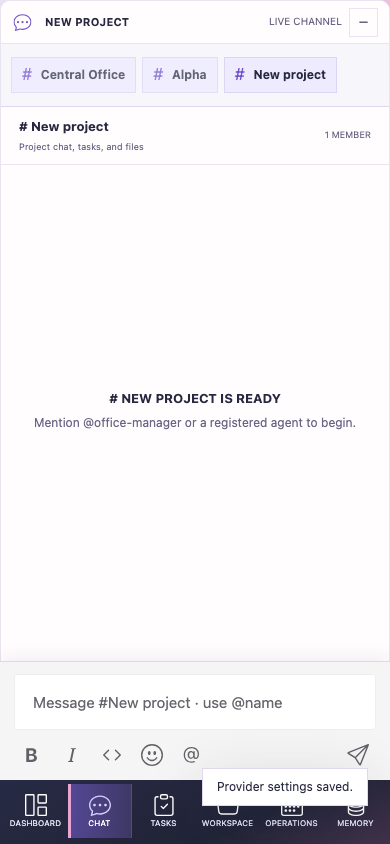
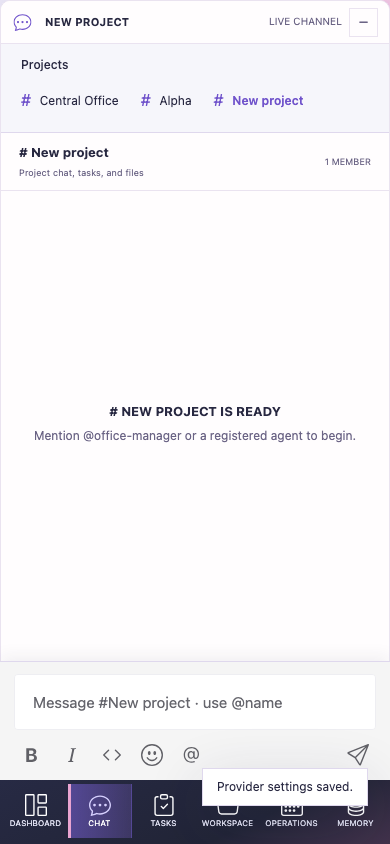
style updates

diff --git a/public/styles/styles.css b/public/styles/styles.css
@@ -214,20 +214,22 @@ body:not([data-page="tasks"]) #add-task-button, body:not([data-page="tasks"]) .t
 
 .office-chat-layout { display: grid; grid-template-columns: 230px minmax(0, 1fr); overflow: hidden; }
 .office-chat-sidebar { min-height: 0; padding: 13px 10px; border-right: 1px solid var(--line); background: #0b1214; }
-.office-chat-channel { height: 36px; display: flex; align-items: center; gap: 9px; padding: 0 10px; border: 1px solid #355245; background: #13231b; color: var(--text); }
+.office-chat-channel { height: 36px; display: flex; align-items: center; gap: 9px; padding: 0 10px; border: 0; background: transparent; color: var(--text); }
 .office-chat-channel span { color: var(--green); font-size: 16px; }
 .office-chat-sidebar h3 { margin: 24px 10px 9px; color: var(--muted); font-size: 9px; font-weight: 400; letter-spacing: .1em; }
 .office-chat-members { display: flex; flex-direction: column; gap: 2px; }
-.office-chat-member { width: 100%; min-height: 39px; display: grid; grid-template-columns: 9px minmax(0, 1fr); align-items: center; column-gap: 9px; padding: 6px 10px; border: 0; background: transparent; color: var(--text); text-align: left; }
-.office-chat-member:hover { background: #ffffff0a; }
-.office-chat-member i { width: 8px; height: 8px; border-radius: 50%; background: var(--green); box-shadow: 0 0 6px #43ec8d77; }
-.office-chat-member[data-status="busy"] i { background: var(--red); box-shadow: 0 0 6px #ff5d6377; }
-.office-chat-member span { min-width: 0; display: flex; flex-direction: column; gap: 2px; }
-.office-chat-member strong { overflow: hidden; font-size: 10px; font-weight: 500; text-overflow: ellipsis; white-space: nowrap; }
-.office-chat-member small { color: var(--muted); font-size: 8px; }
-.office-chat-member-name { min-width: 0; display: flex !important; flex-direction: row !important; align-items: baseline; gap: 6px !important; }
-.office-chat-member-name em { flex: 0 0 auto; color: var(--green); font-size: 8px; font-style: normal; animation: typing-pulse 1.1s steps(2) infinite; }
-.office-chat-member-name em.busy { color: var(--red); animation: none; }
+.office-chat-member { width: 100%; min-height: 42px; display: grid; grid-template-columns: 28px minmax(0, 1fr); align-items: center; gap: 10px; padding: 6px 10px; border: 0; border-radius: 6px; background: transparent; color: var(--text); text-align: left; }
+.office-chat-member:hover, .office-chat-member:focus-visible { background: #8882; }
+.office-chat-member:focus-visible { outline: 2px solid var(--green); outline-offset: -2px; }
+.office-chat-member-avatar { position: relative; display: block; width: 28px; height: 28px; border-radius: 50%; background: var(--panel-hi); }
+.office-chat-member-avatar img { display: block; width: 100%; height: 100%; object-fit: contain; border-radius: 50%; }
+.office-chat-member-status { position: absolute; bottom: -1px; right: -1px; width: 10px; height: 10px; border: 2px solid var(--panel); border-radius: 50%; background: #29a443; }
+.office-chat-member[data-status="busy"] .office-chat-member-status { background: #d73545; }
+.office-chat-member:is([data-status="away"], [data-status="idle"]) .office-chat-member-status { background: #e5a500; }
+.office-chat-member[data-status="offline"] .office-chat-member-status { background: #858599; }
+.office-chat-member strong { min-width: 0; overflow: hidden; font-size: 12px; font-weight: 400; text-overflow: ellipsis; white-space: nowrap; }
+.office-chat-member-name { min-width: 0; display: flex; align-items: center; gap: 6px; }
+.office-chat-member-name em { flex: 0 0 auto; color: var(--muted); font-size: 9px; font-style: normal; animation: typing-pulse 1.1s steps(2) infinite; }
 @keyframes typing-pulse { 50% { opacity: .45; } }
 .office-chat-main { min-width: 0; min-height: 0; display: grid; grid-template-rows: 58px minmax(0, 1fr) auto; }
 .office-chat-heading { display: flex; align-items: center; justify-content: space-between; gap: 20px; padding: 0 18px; border-bottom: 1px solid var(--line-dim); }
@@ -596,10 +598,14 @@ select {
   body[data-page="chat"] .office-chat-page { flex: 1; }
 }
 
-#project-chat-rooms { display: flex; flex-direction: column; gap: 6px; max-height: 40%; overflow: auto; }
+#project-chat-rooms { display: flex; flex-direction: column; gap: 2px; max-height: 40%; overflow: auto; }
 .project-room { width: 100%; flex-shrink: 0; text-align: left; font: inherit; }
-.project-room:not(.active) { background: transparent; border-color: transparent; opacity: .7; }
-.project-room strong { overflow: hidden; text-overflow: ellipsis; white-space: nowrap; }
+.project-room.active { color: var(--green); }
+.project-room:hover { background: #8882; }
+.project-room:focus-visible { outline: 2px solid var(--green); outline-offset: -2px; }
+.office-chat-sidebar .project-list-heading { display: block; margin: 0 10px 10px; font-size: 12px; font-weight: 500; letter-spacing: 0; color: var(--text); }
+.project-room.active strong { font-weight: 600; }
+.project-room strong { font-weight: 400; overflow: hidden; text-overflow: ellipsis; white-space: nowrap; }
 .office-board-empty { max-width: 100%; white-space: normal; overflow-wrap: anywhere; }
 @media (max-width: 1100px) { #project-chat-rooms { flex-direction: row; max-height: none; } .project-room { width: auto; max-width: 240px; } }
 

diff --git a/public/styles/themes.css b/public/styles/themes.css
@@ -97,14 +97,15 @@ html[data-theme-family="modern"] .danger-button:hover { background: #ffe7eb; }
   .theme-preview { height: 135px; }
   .appearance-heading h3 { font-size: 24px; }
 }
-html[data-theme-family="modern"] .office-chat-channel { background: #eeebff; border-color: #dcd5f6; color: var(--text); }
+html[data-theme-family="modern"] .office-chat-channel { background: transparent; border: 0; color: var(--text); }
+html[data-theme-family="modern"] .office-chat-channel.active { color: var(--green); }
+html[data-theme-family="modern"] .office-chat-channel:hover { background: #eeebff; }
 html[data-theme-family="modern"] :is(.worker-token-body input, .worker-token-body textarea, .chat-image-attachment) { background: #f6f6fb; color: var(--text); border-color: var(--line); }
 html[data-theme-family="modern"] .toast.error { color: var(--red); }
 html[data-theme-family="modern"] :is(.task-action-button.delete-task:hover, .skill-delete:hover) { background: #fff0f2; }
 html[data-theme-family="modern"] .task-action-button.stop-task:hover { background: #fff2e9; }
 html[data-theme-family="modern"] .progress { background: #eceaf7; border-color: #d5d1ed; border-radius: 0; overflow: hidden; }
 html[data-theme-family="modern"] .progress i { background: #6b5fd7; }
-html[data-theme-family="modern"] .office-chat-member i { background: #29a443; box-shadow: none; }
 @media (max-width: 1100px) {
   html[data-theme-family="modern"] .app-frame { padding: 0 0 calc(64px + env(safe-area-inset-bottom)); }
   html[data-theme-family="modern"] .sidebar { inset: auto 0 0; height: calc(64px + env(safe-area-inset-bottom)); padding-bottom: env(safe-area-inset-bottom); }
